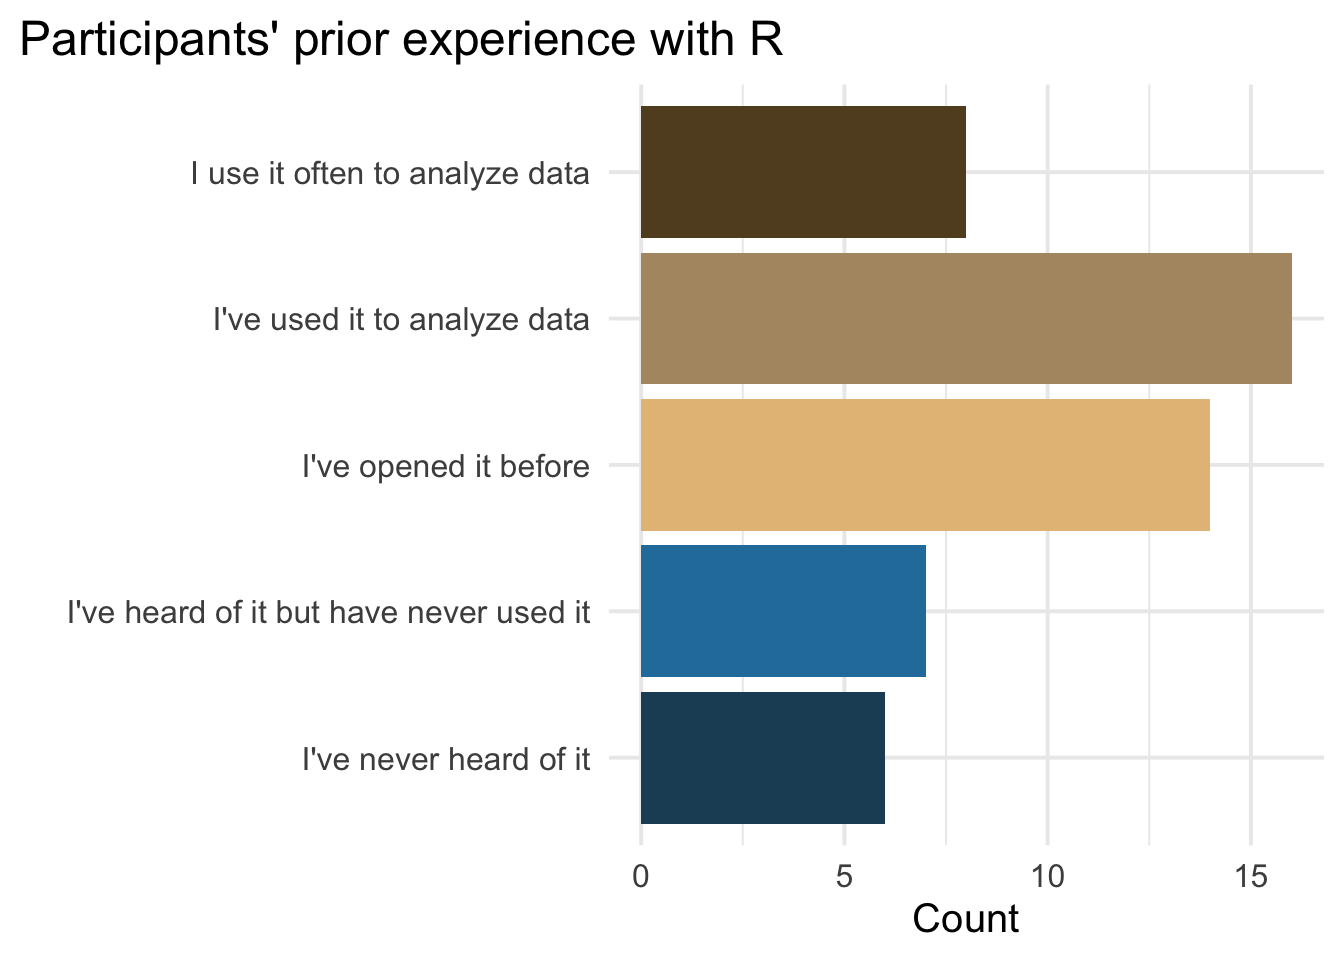
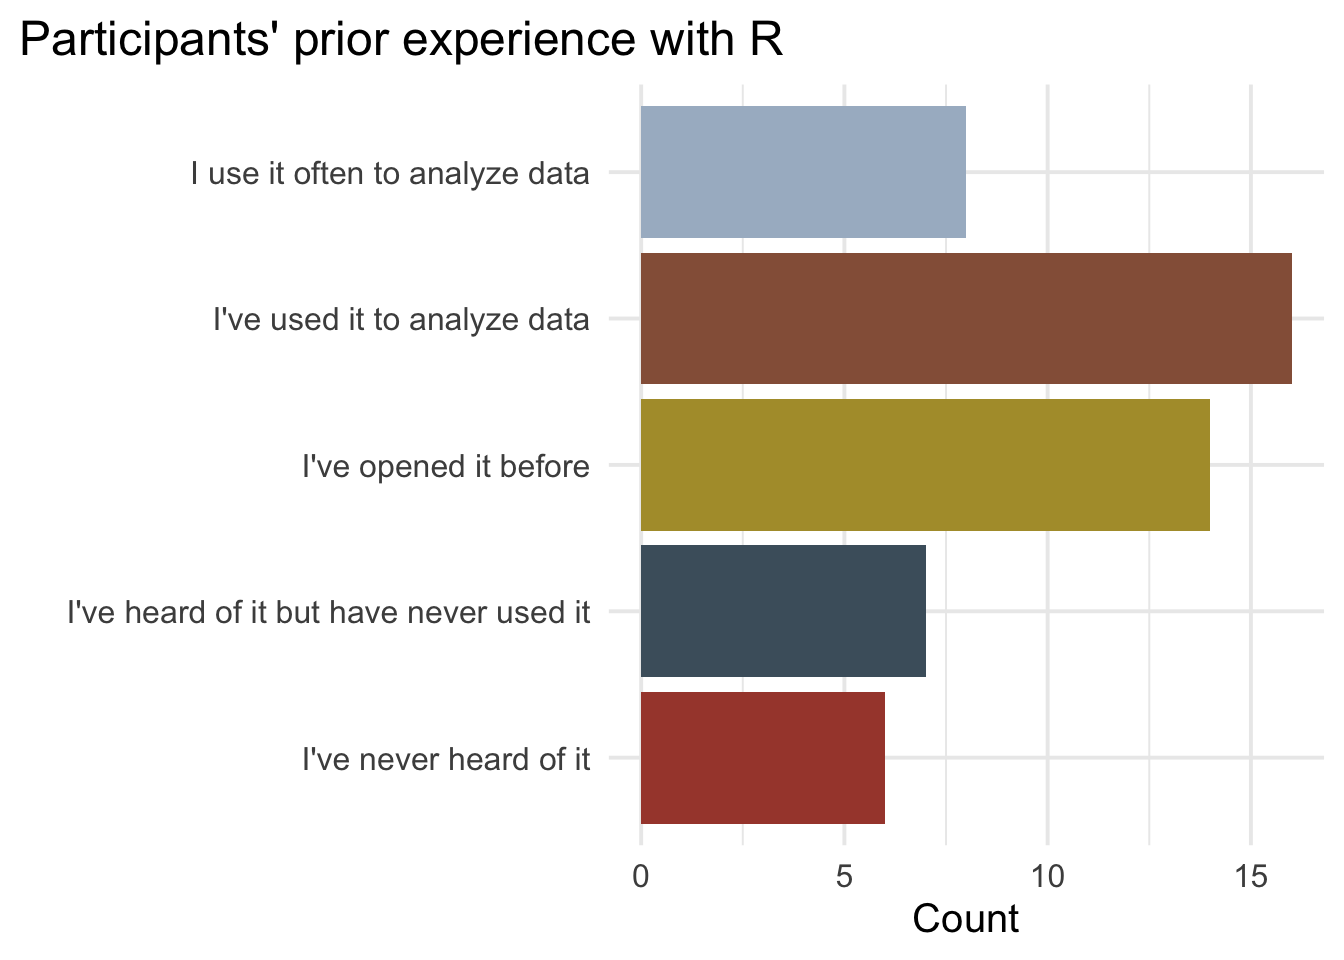
update color pallete

Changed region(s): [[0.4688, 0.0938, 0.9688, 0.875]]

diff --git a/content/post/2020-10-19-teaching-an-r-bootcamp-remotely/index.html b/content/post/2020-10-19-teaching-an-r-bootcamp-remotely/index.html
@@ -31,8 +31,8 @@ codefolding_nobutton: false
 <script src="/rmarkdown-libs/fitvids/fitvids.min.js"></script>
 
 
-<p>At this point, you’re probably familiar with the phrase “flatten the curve” — remember back in March when we were all talking about that? It was part of a critical public health messaging campaign aimed at slowing the spread of COVID-19 to prevent hospitals from becoming overwhelmed beyond their capacity. Based on how things are going, we really should <em>still</em> be talking about that. So allow me to unabashedly steal this catchphrase as a flawed metaphor for learning R during the era of this pandemic…</p>
-<p>It’s no secret that R has a significant leaRning curve — and, while it seems that more people than ever are now learning R, almost everyone is having to do it in an online format of some kind. For those who are used to a traditional classroom learning environment, having a first introduction to R in an online format might make the leaRning curve even steeper (as I said, a flawed metaphor – the concept of a “steep learning curve” is actually the <a href="https://www.valamis.com/hub/learning-curve#steep-learning-curve">opposite</a> of what most people think, but we’ll run with it for the sake of satisfaction). After recently teaching an introductory <a href="https://uopsych-r-bootcamp-2020.netlify.app/">R Bootcamp</a> online, I’ve spent a lot of time thinking about strategies to lower the learning threshold and make it easier to conquer any potential fear of learning R – to “flatten the leaRning curve”, as it were.</p>
+<p>At this point, you’re probably familiar with the phrase “flatten the curve” — remember back in March when we were all talking about that? It was part of a critical public health messaging campaign aimed at slowing the spread of COVID-19 to prevent hospitals from becoming overwhelmed beyond their capacity. Based on how things are going, we really should <em>still</em> be talking about that. So allow me to unabashedly steal this catchphrase as a flawed metaphor for teaching and learning R during the era of this pandemic…</p>
+<p>It’s no secret that R has a significant leaRning curve — and, while it seems that more people than ever are now wanting to learn R, almost everyone is having to do it in an online format of some kind. For those who are used to a traditional in-person classroom environment, having a first introduction to R in an online format might make the leaRning curve even steeper (as I said, a flawed metaphor – the concept of a “steep learning curve” is actually the <a href="https://www.valamis.com/hub/learning-curve#steep-learning-curve">opposite</a> of what most people think, but we’ll run with it anyway). After recently teaching an introductory <a href="https://uopsych-r-bootcamp-2020.netlify.app/">R Bootcamp</a> online, I’ve spent a lot of time thinking about strategies to lower the learning threshold and make it easier to conquer any potential fear of learning R – to “flatten the leaRning curve”, as it were.</p>
 <div class="reader">
 <p>For anyone who might be new to teaching R, teaching online, or both, the goal of this post is to share some valuable lessons I learned and resources I used during this online teaching experience. I hope it may be of some benefit for your own teaching.</p>
 </div>
@@ -89,7 +89,7 @@ plot_data %&gt;%
   ggplot(aes(experience, n, fill = experience)) + 
   geom_col() +
   coord_flip() + 
-  scale_fill_manual(values = get_pal(&quot;Kotare&quot;))  + 
+  scale_fill_manual(values = get_pal(&quot;Kaka&quot;))  + 
   labs(x = &quot;&quot;, y = &quot;Count&quot;, title = &quot;Participants&#39; prior experience with R&quot;)</code></pre>
 <p><img src="/post/2020-10-19-teaching-an-r-bootcamp-remotely/index_files/figure-html/unnamed-chunk-3-1.png" width="672" /></p>
 </div>
